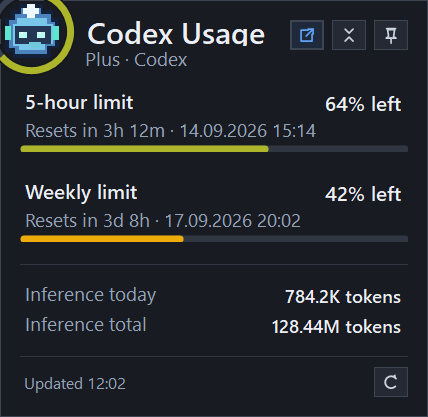
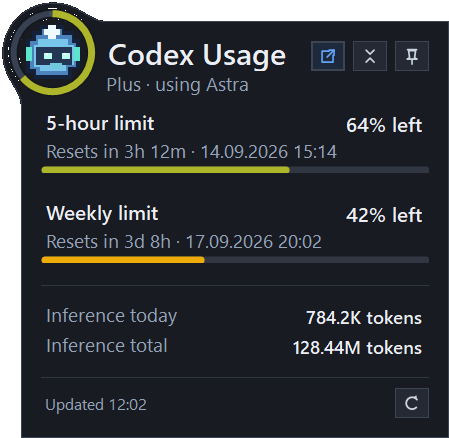
Extend popup border around activity indicator (#64)

diff --git a/src/CodexUsageTray/UI/UsagePopupForm.cs b/src/CodexUsageTray/UI/UsagePopupForm.cs
@@ -1,3 +1,5 @@
+using System.Drawing.Drawing2D;
+
 namespace CodexUsageTray;
 
 internal sealed class UsagePopupForm : Form
@@ -5,6 +7,8 @@ internal sealed class UsagePopupForm : Form
     private const int ContentInset = 20;
     private const int PopupWidth = 428;
     private const int ContentWidth = PopupWidth - (2 * ContentInset);
+    private static readonly Color PopupBackColor = Color.FromArgb(24, 27, 34);
+    private static readonly Color PopupBorderColor = Color.FromArgb(61, 68, 82);
     private readonly UsageActivityIndicator activityIndicator;
     private readonly ActivityOverlayForm activityOverlay;
     private readonly Label title;
@@ -62,7 +66,7 @@ internal sealed class UsagePopupForm : Form
         FormBorderStyle = FormBorderStyle.None;
         ShowInTaskbar = false;
         StartPosition = FormStartPosition.Manual;
-        BackColor = Color.FromArgb(24, 27, 34);
+        BackColor = PopupBackColor;
         ForeColor = Color.FromArgb(235, 238, 244);
         ClientSize = new Size(PopupWidth, 411);
         Padding = new Padding(ContentInset);
@@ -407,9 +411,9 @@ internal sealed class UsagePopupForm : Form
     protected override void OnPaint(PaintEventArgs eventArgs)
     {
         base.OnPaint(eventArgs);
-        using var pen = new Pen(Color.FromArgb(61, 68, 82))
+        using var pen = new Pen(PopupBorderColor)
         {
-            Alignment = System.Drawing.Drawing2D.PenAlignment.Inset
+            Alignment = PenAlignment.Inset
         };
         eventArgs.Graphics.DrawRectangle(pen, 0, 0, ClientSize.Width - 1, ClientSize.Height - 1);
     }
@@ -678,6 +682,7 @@ internal sealed class UsagePopupForm : Form
     private void PositionActivityOverlay()
     {
         var titleCenterY = title.Top + (title.Height / 2);
+        activityOverlay.SetPopupInset((activityOverlay.Width / 2) - titleCenterY);
         activityOverlay.Location = new Point(
             Left + titleCenterY - (activityOverlay.Width / 2),
             Top + titleCenterY - (activityOverlay.Height / 2));
@@ -688,17 +693,82 @@ internal sealed class UsagePopupForm : Form
         private const int WsExTransparent = 0x20;
         private const int WsExToolWindow = 0x80;
         private const int WsExNoActivate = 0x08000000;
+        private const float OutlineRadius = 50;
+        private int popupInset;
 
         public ActivityOverlayForm(UsageActivityIndicator indicator)
         {
             AutoScaleMode = AutoScaleMode.None;
-            BackColor = Color.FromArgb(24, 27, 34);
-            ClientSize = indicator.Size;
+            BackColor = Color.FromArgb(23, 26, 33);
+            ClientSize = indicator.Size + new Size(1, 1);
             FormBorderStyle = FormBorderStyle.None;
             ShowInTaskbar = false;
             StartPosition = FormStartPosition.Manual;
             TransparencyKey = BackColor;
             Controls.Add(indicator);
+        }
+
+        public void SetPopupInset(int inset)
+        {
+            popupInset = inset;
+            Invalidate();
+        }
+
+        protected override void OnPaint(PaintEventArgs eventArgs)
+        {
+            base.OnPaint(eventArgs);
+            eventArgs.Graphics.SmoothingMode = SmoothingMode.AntiAlias;
+            var farEdge = ClientSize.Width - 1;
+            var circle = new RectangleF(
+                (ClientSize.Width / 2f) - OutlineRadius,
+                (ClientSize.Height / 2f) - OutlineRadius,
+                OutlineRadius * 2,
+                OutlineRadius * 2);
+
+            using var fillPath = new GraphicsPath();
+            AddCornerOutline(fillPath, circle, farEdge);
+            fillPath.AddLine(popupInset, farEdge, popupInset, farEdge + 2);
+            fillPath.AddLine(popupInset, farEdge + 2, farEdge + 2, farEdge + 2);
+            fillPath.AddLine(farEdge + 2, farEdge + 2, farEdge + 2, popupInset);
+            fillPath.AddLine(farEdge + 2, popupInset, farEdge, popupInset);
+            fillPath.CloseFigure();
+            using (var background = new SolidBrush(PopupBackColor))
+            {
+                eventArgs.Graphics.FillPath(background, fillPath);
+            }
+
+            using var outlinePath = new GraphicsPath();
+            AddCornerOutline(outlinePath, circle, farEdge);
+            using var border = new Pen(PopupBorderColor);
+            eventArgs.Graphics.DrawPath(border, outlinePath);
+        }
+
+        private void AddCornerOutline(GraphicsPath path, RectangleF circle, int farEdge)
+        {
+            const float startAngle = -60;
+            const float sweepAngle = -150;
+            var center = new PointF(circle.Left + (circle.Width / 2), circle.Top + (circle.Height / 2));
+            var start = PointOnCircle(center, OutlineRadius, startAngle);
+            var end = PointOnCircle(center, OutlineRadius, startAngle + sweepAngle);
+            path.AddBezier(
+                new PointF(farEdge, popupInset),
+                new PointF(farEdge - 8, popupInset),
+                new PointF(start.X + 9, start.Y + 5),
+                start);
+            path.AddArc(circle, startAngle, sweepAngle);
+            path.AddBezier(
+                end,
+                new PointF(end.X + 5, end.Y + 9),
+                new PointF(popupInset, farEdge - 8),
+                new PointF(popupInset, farEdge));
+        }
+
+        private static PointF PointOnCircle(PointF center, float radius, float angle)
+        {
+            var radians = angle * MathF.PI / 180;
+            return new PointF(
+                center.X + (radius * MathF.Cos(radians)),
+                center.Y + (radius * MathF.Sin(radians)));
         }
 
         protected override bool ShowWithoutActivation => true;

diff --git a/tools/CodexUsageTray.ScreenshotGenerator/Program.cs b/tools/CodexUsageTray.ScreenshotGenerator/Program.cs
@@ -104,10 +104,21 @@ internal static class Program
         control.CreateControl();
         control.PerformLayout();
 
-        using var bitmap = new Bitmap(control.ClientSize.Width, control.ClientSize.Height);
-        control.DrawToBitmap(bitmap, control.ClientRectangle);
-        if (control is CodexUsageTray.UsagePopupForm popup
-            && popup.OwnedForms.SingleOrDefault() is { } overlay)
+        var captureBounds = new Rectangle(Point.Empty, control.ClientSize);
+        var overlay = (control as CodexUsageTray.UsagePopupForm)?.OwnedForms.SingleOrDefault();
+        var overlayOffset = overlay is null
+            ? Point.Empty
+            : new Point(overlay.Left - control.Left, overlay.Top - control.Top);
+        if (overlay is not null)
+        {
+            captureBounds = Rectangle.Union(captureBounds, new Rectangle(overlayOffset, overlay.Size));
+        }
+
+        using var bitmap = new Bitmap(captureBounds.Width, captureBounds.Height);
+        control.DrawToBitmap(
+            bitmap,
+            new Rectangle(-captureBounds.X, -captureBounds.Y, control.ClientSize.Width, control.ClientSize.Height));
+        if (overlay is not null)
         {
             using var overlayBitmap = new Bitmap(overlay.Width, overlay.Height);
             overlay.DrawToBitmap(overlayBitmap, overlay.ClientRectangle);
@@ -115,8 +126,8 @@ internal static class Program
             using var graphics = Graphics.FromImage(bitmap);
             graphics.DrawImageUnscaled(
                 overlayBitmap,
-                overlay.Left - popup.Left,
-                overlay.Top - popup.Top);
+                overlayOffset.X - captureBounds.X,
+                overlayOffset.Y - captureBounds.Y);
         }
 
         bitmap.Save(path, ImageFormat.Png);

diff --git a/tests/CodexUsageTray.Tests/UsageActivityIndicatorTests.cs b/tests/CodexUsageTray.Tests/UsageActivityIndicatorTests.cs
@@ -84,7 +84,7 @@ public sealed class UsageActivityIndicatorTests
         });
 
     [Fact]
-    public Task KeepsAVisibleRedMarkerAtZeroAllowance() =>
+    public Task KeepsAVisibleMarkerAtZeroAllowance() =>
         StaTest.RunAsync(() =>
         {
             using var indicator = new UsageActivityIndicator();
@@ -93,13 +93,7 @@ public sealed class UsageActivityIndicatorTests
                 ResetsAt: DateTimeOffset.Now.AddHours(5),
                 WindowDuration: TimeSpan.FromHours(5),
                 ResetObservedAt: null));
-            using var bitmap = new Bitmap(indicator.Width, indicator.Height);
 
-            indicator.DrawToBitmap(bitmap, indicator.ClientRectangle);
-
-            Assert.Contains(
-                Enumerable.Range(0, bitmap.Width)
-                    .SelectMany(x => Enumerable.Range(0, bitmap.Height).Select(y => bitmap.GetPixel(x, y))),
-                color => color.R > 180 && color.G < 110 && color.B < 110);
+            Assert.Equal(4, indicator.RingSweep);
         });
 }

diff --git a/src/CodexUsageTray/UI/Controls/UsageActivityIndicator.cs b/src/CodexUsageTray/UI/Controls/UsageActivityIndicator.cs
@@ -50,6 +50,9 @@ internal sealed class UsageActivityIndicator : Control
 
     internal bool IsActive => activityLatched;
     internal float ActivityMotion => activityMotion;
+    internal float RingSweep => Math.Max(
+        4,
+        Math.Clamp(allowance.RemainingPercent ?? 100, 0, 100) * 3.6f);
 
     private bool HasRecentToken(DateTimeOffset now) =>
         session.LastTokenAt is { } lastTokenAt
@@ -196,7 +199,7 @@ internal sealed class UsageActivityIndicator : Control
 
         using (var value = new Pen(usageColor, 7))
         {
-            graphics.DrawArc(value, bounds, start, Math.Max(4, remaining * 3.6f));
+            graphics.DrawArc(value, bounds, start, RingSweep);
         }
 
         DrawResetPulse(graphics, bounds, now);

diff --git a/tests/CodexUsageTray.Tests/UsagePopupFormTests.cs b/tests/CodexUsageTray.Tests/UsagePopupFormTests.cs
@@ -97,6 +97,8 @@ public sealed class UsagePopupFormTests
                 popup.Top + title.Top + (title.Height / 2),
                 overlay.Top + indicator.Top + (indicator.Height / 2));
             Assert.Equal(overlay.BackColor, overlay.TransparencyKey);
+            Assert.NotEqual(popup.BackColor, overlay.TransparencyKey);
+            Assert.Equal(indicator.Size + new Size(1, 1), overlay.ClientSize);
             Assert.Equal(FormBorderStyle.None, overlay.FormBorderStyle);
         });
     }
